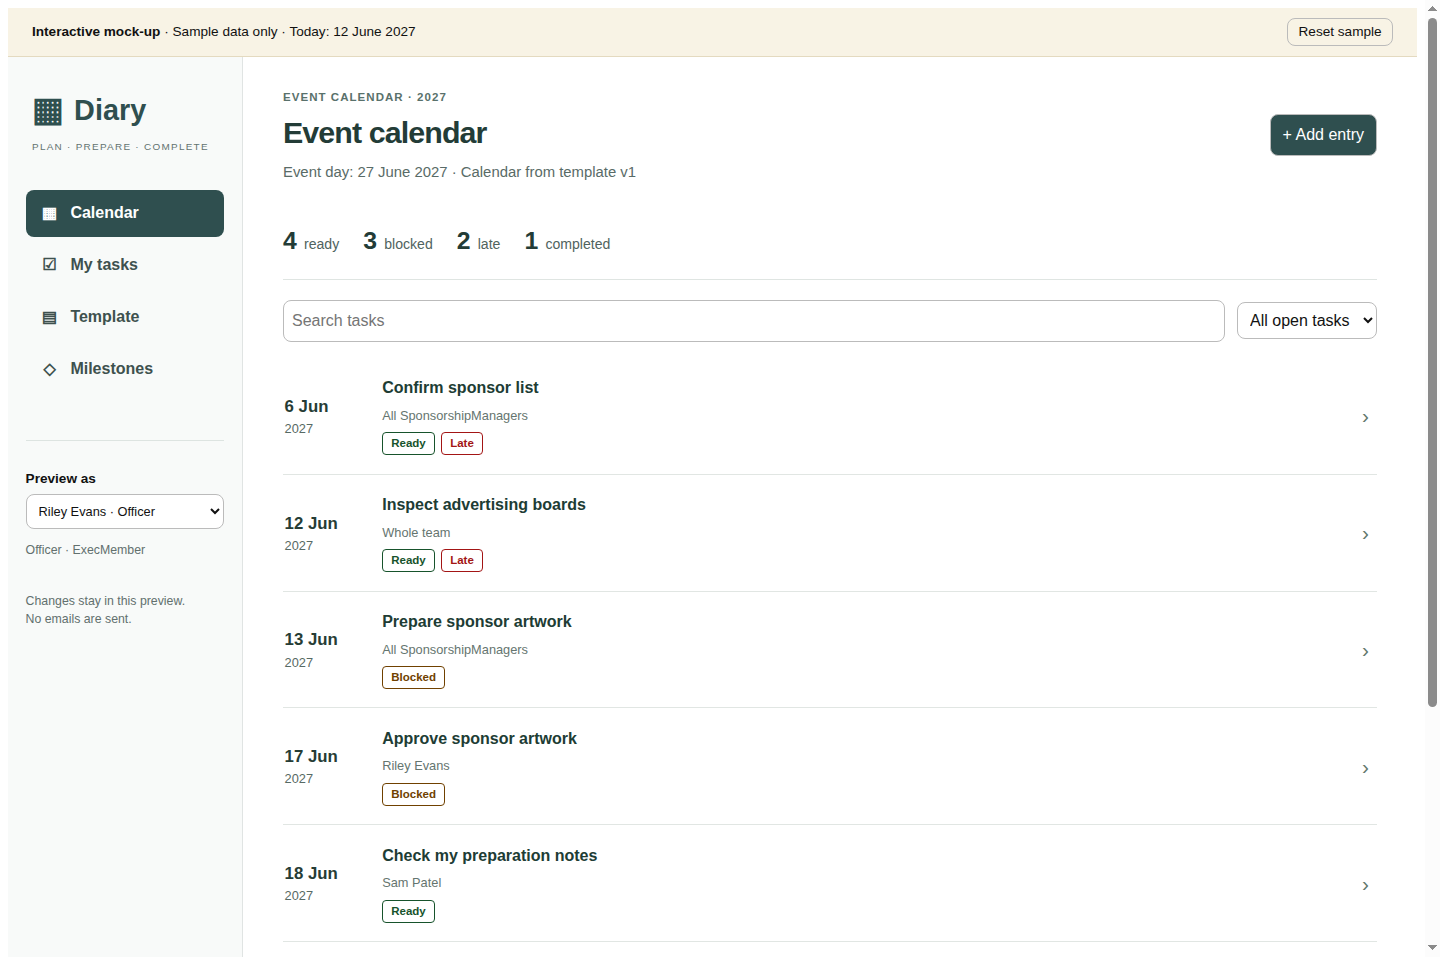
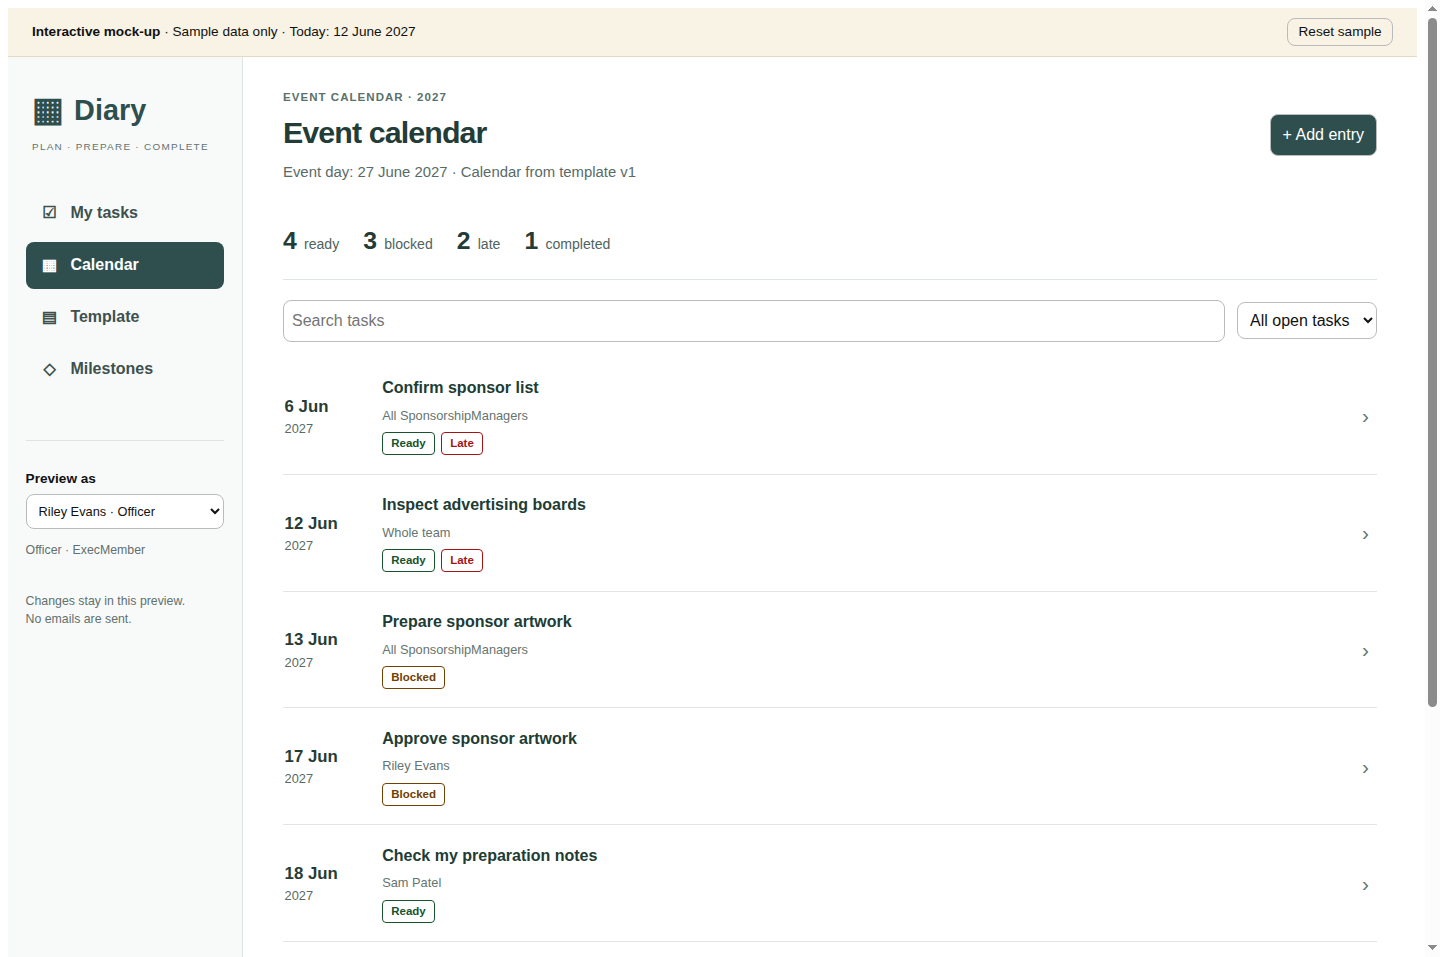
Default Diary preview to personal and role-owned tasks

Changed region(s): [[0.0, 0.1818, 0.1562, 0.303]]

diff --git a/design/ui/preview.js b/design/ui/preview.js
@@ -16,6 +16,7 @@
     let filters = {query:'', state:'open', team:false};
     let templateSelection = 't1';
     let versionSelection = 'draft';
+    let lastList = 'mine';
     let toastTimer;
     function initial() {
         const tasks = [
@@ -71,13 +72,14 @@
         return `<p class="diary-preview-eyebrow">${esc(eyebrow)}</p><header class="diary-preview-header"><div class="diary-preview-header-text"><h1 class="diary-preview-title">${esc(title)}</h1><p class="diary-preview-subtitle">${esc(subtitle)}</p></div><div class="diary-preview-header-actions">${actions}</div></header>`;
     }
     function nav(page) {
-        const items = [['calendar','▦','Calendar'],['mine','☑','My tasks'],...(officer()?[['template','▤','Template'],['milestones','◇','Milestones']]:[])];
+        const items = [['mine','☑','My tasks'],['calendar','▦','Calendar'],...(officer()?[['template','▤','Template'],['milestones','◇','Milestones']]:[])];
         $('preview-nav').innerHTML=items.map(([key,icon,label])=>`<a class="diary-preview-nav-link" href="#${key}" ${page===key?'aria-current="page"':''}><span class="diary-preview-nav-icon" aria-hidden="true">${icon}</span><span class="diary-preview-nav-label">${label}</span></a>`).join('');
         $('preview-persona').value=state.persona;
         $('preview-persona-note').textContent=people[state.persona].groups.join(' · ');
     }
     function personal(task) { return (task.ownerKind==='person'&&task.owner===state.persona)||(task.ownerKind==='role'&&people[state.persona].groups.includes(task.owner))||(filters.team&&task.ownerKind==='team'); }
     function taskPage(mine) {
+        lastList = mine ? 'mine' : 'calendar';
         const tasks=state.tasks.filter(task=>!mine||personal(task));
         const counts={ready:tasks.filter(t=>!t.completed&&!blocked(t)).length,blocked:tasks.filter(t=>!t.completed&&blocked(t)).length,late:tasks.filter(late).length,completed:tasks.filter(t=>t.completed).length};
         main.innerHTML=header(mine?'My tasks':'Event calendar',mine?`Tasks for ${people[state.persona].name} and their roles.`:`Event day: ${fmt(state.milestones.event_date)} · Calendar from template v1`, '<a class="diary-button diary-button-primary" href="#new">+ Add entry</a>')+
@@ -100,7 +102,7 @@
         const task=state.tasks.find(t=>t.id===id);if(!task){main.innerHTML=header('Task not found','Return to the calendar to select a task.');return;}
         const canComplete=officer()||(task.ownerKind==='person'&&task.owner===state.persona)||(task.ownerKind==='role'&&people[state.persona].groups.includes(task.owner));
         const successors=state.tasks.filter(t=>t.pred.includes(id));
-        main.innerHTML=`<a class="diary-preview-back" href="#calendar">← Back to calendar</a>`+header(task.name,ownerText(task),!task.completed&&(officer()||task.owner===state.persona)?`<a class="diary-button" href="#edit/${id}">Edit entry</a>`:'')+
+        main.innerHTML=`<a class="diary-preview-back" href="#${lastList}">← Back to ${lastList==='mine'?'my tasks':'calendar'}</a>`+header(task.name,ownerText(task),!task.completed&&(officer()||task.owner===state.persona)?`<a class="diary-button" href="#edit/${id}">Edit entry</a>`:'')+
             `<div class="diary-preview-badges">${badges(task)}</div><p class="diary-preview-detail-description">${esc(task.description)}</p><div class="diary-preview-columns"><div class="diary-preview-detail-main"><section class="diary-card"><h2 class="diary-preview-section-title">Task details</h2><dl class="diary-preview-facts"><dt class="diary-preview-fact-name">Due date</dt><dd class="diary-preview-fact-value">${esc(fmt(dateOf(task)))}</dd><dt class="diary-preview-fact-name">Date rule</dt><dd class="diary-preview-fact-value">${esc(ruleText(task))}</dd><dt class="diary-preview-fact-name">Owner</dt><dd class="diary-preview-fact-value">${esc(ownerText(task))}</dd></dl></section><section class="diary-card"><h2 class="diary-preview-section-title">${task.completed?'Completion record':'Complete this task'}</h2>${task.completed?`<p class="diary-preview-completion-record">Completed by ${esc(people[task.completedBy]?.name||'Team member')} on ${fmt(task.completedOn)}.</p><p class="diary-preview-completion-note">${esc(task.completionNote||'No note added.')}</p>`:blocked(task)?`<p class="diary-preview-note diary-preview-warning">This task is blocked. Complete its predecessors first.</p><button type="button" class="diary-button" disabled>Mark as complete</button>`:!canComplete?'<p class="diary-preview-note">This task belongs to another person or the whole team. Use the Officer preview to record completion.</p>':`<form class="diary-preview-completion-form" id="completion-form"><label class="diary-preview-field-label" for="completion-note">Completion note <span class="diary-preview-optional">(optional)</span></label><textarea class="diary-preview-control" id="completion-note" rows="3" placeholder="Record what was done"></textarea><div class="diary-actions"><button class="diary-button diary-button-primary" type="submit">Mark as complete</button></div><p class="diary-preview-help">Preview behavior only. Production completion permissions are still a design decision.</p></form>`}</section></div><aside class="diary-preview-detail-side"><section class="diary-card"><h2 class="diary-preview-section-title">Depends on</h2>${dependencyList(task.pred)}</section><section class="diary-card"><h2 class="diary-preview-section-title">Enables</h2>${dependencyList(successors.map(t=>t.id))}</section></aside></div>`;
         if($('completion-form')) $('completion-form').addEventListener('submit', event=>{event.preventDefault();task.completedDue=dateOf(task);task.completed=true;task.completedBy=state.persona;task.completedOn=TODAY;task.completionNote=$('completion-note').value.trim();persist();details(id);notify('Task completed in the preview. Successor readiness has been updated.');});
     }
@@ -128,7 +130,7 @@
         return `<label class="diary-preview-field-label" for="predecessor-search">Predecessors</label><input class="diary-preview-control" id="predecessor-search" type="search" placeholder="Find a predecessor"><p class="diary-preview-help">This task and its successors are excluded. Choose none, one, or several.</p><div class="diary-preview-predecessors" id="predecessor-list">${choices.length?choices.map(t=>`<label class="diary-preview-check-label diary-preview-predecessor-choice" data-search="${esc(t.name.toLowerCase())}"><input class="diary-preview-checkbox" type="checkbox" name="pred" value="${t.id}" ${spec.pred.includes(t.id)?'checked':''}><span class="diary-preview-predecessor-name">${esc(t.name)}</span></label>`).join(''):'<p class="diary-preview-help">No available predecessors.</p>'}</div>`;
     }
     function formMarkup(spec,tasks,{template=false,personalOnly=false,readOnly=false}={}) {
-        return `<form class="diary-preview-entry-form" id="entry-form"><fieldset class="diary-preview-fieldset" ${readOnly?'disabled':''}><div class="diary-preview-form-grid"><div class="diary-preview-field-wide"><label class="diary-preview-field-label" for="entry-name">Task name</label><input class="diary-preview-control" id="entry-name" name="name" value="${esc(spec.name)}" maxlength="160" required></div><div class="diary-preview-field-wide"><label class="diary-preview-field-label" for="entry-description">Description</label><textarea class="diary-preview-control" id="entry-description" name="description" rows="2">${esc(spec.description)}</textarea></div>${ownerFields(spec,personalOnly)}<div class="diary-preview-field-wide"><label class="diary-preview-field-label" for="date-type">Date type</label><select class="diary-preview-control" id="date-type" name="type">${[['relative','Days before or after a milestone'],['source','On a milestone date'],['annual','Fixed annual date'],...(!template?[['once','One-time date']]:[])].map(([key,label])=>`<option value="${key}" ${spec.type===key?'selected':''}>${label}</option>`).join('')}</select><div class="diary-preview-rule-fields" id="rule-fields">${ruleFields(spec.type,spec)}</div></div>${!personalOnly?`<div class="diary-preview-field-wide">${predecessors(spec,tasks)}</div>`:''}${!template&&officer()&&!spec.existing?'<div class="diary-preview-field-wide"><label class="diary-preview-check-label"><input class="diary-preview-checkbox" type="checkbox" name="addTemplate">Also add to the template draft for future events</label></div>':''}</div><p class="diary-preview-error" id="form-error" role="alert" hidden></p><div class="diary-actions">${!readOnly?`<button type="submit" class="diary-button diary-button-primary">${template?'Save draft entry':'Save entry'}</button>`:''}<a class="diary-button" href="#${template?'template':'calendar'}">${readOnly?'Back':'Cancel'}</a></div></fieldset></form>`;
+        return `<form class="diary-preview-entry-form" id="entry-form"><fieldset class="diary-preview-fieldset" ${readOnly?'disabled':''}><div class="diary-preview-form-grid"><div class="diary-preview-field-wide"><label class="diary-preview-field-label" for="entry-name">Task name</label><input class="diary-preview-control" id="entry-name" name="name" value="${esc(spec.name)}" maxlength="160" required></div><div class="diary-preview-field-wide"><label class="diary-preview-field-label" for="entry-description">Description</label><textarea class="diary-preview-control" id="entry-description" name="description" rows="2">${esc(spec.description)}</textarea></div>${ownerFields(spec,personalOnly)}<div class="diary-preview-field-wide"><label class="diary-preview-field-label" for="date-type">Date type</label><select class="diary-preview-control" id="date-type" name="type">${[['relative','Days before or after a milestone'],['source','On a milestone date'],['annual','Fixed annual date'],...(!template?[['once','One-time date']]:[])].map(([key,label])=>`<option value="${key}" ${spec.type===key?'selected':''}>${label}</option>`).join('')}</select><div class="diary-preview-rule-fields" id="rule-fields">${ruleFields(spec.type,spec)}</div></div>${!personalOnly?`<div class="diary-preview-field-wide">${predecessors(spec,tasks)}</div>`:''}${!template&&officer()&&!spec.existing?'<div class="diary-preview-field-wide"><label class="diary-preview-check-label"><input class="diary-preview-checkbox" type="checkbox" name="addTemplate">Also add to the template draft for future events</label></div>':''}</div><p class="diary-preview-error" id="form-error" role="alert" hidden></p><div class="diary-actions">${!readOnly?`<button type="submit" class="diary-button diary-button-primary">${template?'Save draft entry':'Save entry'}</button>`:''}<a class="diary-button" href="#${template?'template':lastList}">${readOnly?'Back':'Cancel'}</a></div></fieldset></form>`;
     }
     function readForm(form,spec) {
         const data=new FormData(form);const type=data.get('type');
@@ -148,10 +150,10 @@
     }
     function editEntry(id) {
         const existing=id?state.tasks.find(t=>t.id===id):null;
-        if(id&&!existing){go('calendar');return;}
+        if(id&&!existing){go(lastList);return;}
         if(existing&&(existing.completed||(!officer()&&!(existing.ownerKind==='person'&&existing.owner===state.persona)))){main.innerHTML=header('Entry cannot be edited','Use the calendar to inspect this entry.');return;}
         const spec=existing?{...clone(existing),existing:true}:{id:`t${state.nextId}`,name:'',description:'',type:'relative',milestone:'event_date',offset:-7,ownerKind:officer()?'team':'person',owner:officer()?'':state.persona,pred:[]};
-        main.innerHTML=`<a class="diary-preview-back" href="#calendar">← Back to calendar</a>`+header(existing?'Edit entry':officer()?'Add calendar entry':'Add personal entry','Changes apply to this preview only.')+`<div class="diary-card">${formMarkup(spec,state.tasks,{personalOnly:!officer()})}</div>`;
+        main.innerHTML=`<a class="diary-preview-back" href="#${lastList}">← Back to ${lastList==='mine'?'my tasks':'calendar'}</a>`+header(existing?'Edit entry':officer()?'Add calendar entry':'Add personal entry','Changes apply to this preview only.')+`<div class="diary-card">${formMarkup(spec,state.tasks,{personalOnly:!officer()})}</div>`;
         bindForm(spec,state.tasks,(result,addTemplate)=>{if(addTemplate&&(state.draft||state.approved).some(t=>t.name.toLowerCase()===result.name.toLowerCase()))throw Error('That name already exists in the template draft.');if(addTemplate&&result.pred.some(id=>!(state.draft||state.approved).some(t=>t.id===id)))throw Error('A selected predecessor is not in the template. Add it to the template first, or save this entry without the template option.');if(!officer())result.pred=clone(spec.pred);if(existing)state.tasks[state.tasks.findIndex(t=>t.id===id)]=result;else{state.tasks.push(result);state.nextId++;}if(addTemplate){if(!state.draft)state.draft=clone(state.approved);state.draft.push({...clone(result),pred:result.pred.filter(id=>state.draft.some(t=>t.id===id))});}persist();go(`task/${result.id}`);notify(addTemplate?'Entry saved. The template draft also has a new entry.':'Entry saved in the preview.');});
     }
     function requireOfficer(){if(officer())return true;main.innerHTML=header('Officer view','This page is available to Officers. Switch the preview role to inspect it.');return false;}
@@ -173,13 +175,13 @@
         $('milestone-form').addEventListener('submit',event=>{event.preventDefault();const data=new FormData(event.target);for(const [key,value]of data)state.milestones[key]=String(value);persist();notify('Milestone dates saved. Open task dates have been recalculated.');});
     }
     function render() {
-        const [page,id]=(location.hash.slice(1)||'calendar').split('/');nav(page);document.title=`Diary · ${page==='mine'?'My tasks':page==='template'?'Template':page==='milestones'?'Milestones':page==='task'?'Task details':'Calendar'} preview`;
+        const [requested,id]=(location.hash.slice(1)||'mine').split('/');const page=['mine','calendar','task','new','edit','template','milestones'].includes(requested)?requested:'mine';nav(page);document.title=`Diary · ${page==='mine'?'My tasks':page==='template'?'Template':page==='milestones'?'Milestones':page==='task'?'Task details':'Calendar'} preview`;
         if(page==='mine')taskPage(true);else if(page==='task')details(id);else if(page==='new')editEntry();else if(page==='edit')editEntry(id);else if(page==='template')templates();else if(page==='milestones')milestones();else taskPage(false);
     }
-    $('preview-persona').addEventListener('change',event=>{state.persona=event.target.value;filters={query:'',state:'open',team:false};persist();render();});
+    $('preview-persona').addEventListener('change',event=>{state.persona=event.target.value;filters={query:'',state:'open',team:false};persist();go('mine');});
     document.addEventListener('click',event=>{
         const action=event.target.closest('[data-action]')?.dataset.action;if(!action)return;
-        if(action==='reset'){state=initial();filters={query:'',state:'open',team:false};versionSelection='draft';templateSelection='t1';persist();go('calendar');notify('Sample data reset.');}
+        if(action==='reset'){state=initial();filters={query:'',state:'open',team:false};versionSelection='draft';templateSelection='t1';persist();go('mine');notify('Sample data reset.');}
         if(!officer()&&action!=='reset')return;
         if(action==='approve'&&state.draft){state.approved=clone(state.draft);state.approvedNumber++;state.draft=null;versionSelection='approved';persist();templates();notify('Template approved in the preview. Existing event tasks are unchanged.');}
         if(action==='new-draft'){state.draft=clone(state.approved);versionSelection='draft';persist();templates();}

diff --git a/design/ui/index.html b/design/ui/index.html
@@ -13,7 +13,7 @@
     <div class="diary-preview-banner"><span class="diary-preview-banner-text"><strong class="diary-preview-banner-title">Interactive mock-up</strong> · Sample data only · Today: 12 June 2027</span><button type="button" class="diary-button diary-preview-reset" data-action="reset">Reset sample</button></div>
     <div class="diary-preview-layout">
         <aside class="diary-preview-sidebar" aria-label="Diary navigation">
-            <a class="diary-preview-brand" href="#calendar"><span class="diary-preview-brand-icon" aria-hidden="true">▦</span><span class="diary-preview-brand-name">Diary</span></a>
+            <a class="diary-preview-brand" href="#mine"><span class="diary-preview-brand-icon" aria-hidden="true">▦</span><span class="diary-preview-brand-name">Diary</span></a>
             <p class="diary-preview-sidebar-caption">PLAN · PREPARE · COMPLETE</p>
             <nav class="diary-preview-nav" id="preview-nav"></nav>
             <div class="diary-preview-persona"><label class="diary-preview-field-label" for="preview-persona">Preview as</label><select class="diary-preview-control" id="preview-persona"><option value="riley">Riley Evans · Officer</option><option value="sam">Sam Patel · ExecMember</option><option value="jess">Jess Morgan · SponsorshipManager + ExecMember</option></select><p class="diary-preview-persona-note" id="preview-persona-note"></p></div>

diff --git a/design/ui/README.md b/design/ui/README.md
@@ -5,6 +5,13 @@ No server or database is necessary.
 The preview uses the packaged Diary stylesheet and a separate preview stylesheet.
 Keep this directory inside the checkout so the relative paths remain valid.
 
+The default page is **My tasks**.
+It shows tasks owned by the selected person or by a role that includes that person.
+It excludes whole-team tasks unless the user selects **Include whole-team tasks**.
+The default status filter shows open tasks.
+**Calendar** remains an explicit navigation choice for the full event list.
+Changing the preview user or resetting the sample also opens **My tasks**.
+
 ## Main pages
 
 The navigation opens these pages within one standalone browser document:
@@ -24,6 +31,7 @@ A blocked task can also be late.
 
 Saved preview images:
 
+- [Default personal view on desktop](previews/my-tasks-desktop.png).
 - [Calendar on desktop](previews/calendar-desktop.png).
 - [Template editor on desktop](previews/template-desktop.png).
 - [Calendar on a phone](previews/calendar-mobile.png).

diff --git a/README.md b/README.md
@@ -334,6 +334,8 @@ Its `role_exists(reference)` method checks the role reference.
 Diary does not implement that directory through another app's models.
 
 The personal list uses the Actor's current group membership for role-owned tasks.
+The default logged-in Diary page must use `personal_tasks` for its task list.
+The full event list from `active_tasks` is an explicit view choice, not the default landing page.
 It excludes whole-team tasks unless `include_whole_team=True`.
 The list returns each task once.
 Membership changes take effect when the host supplies a new Actor.
